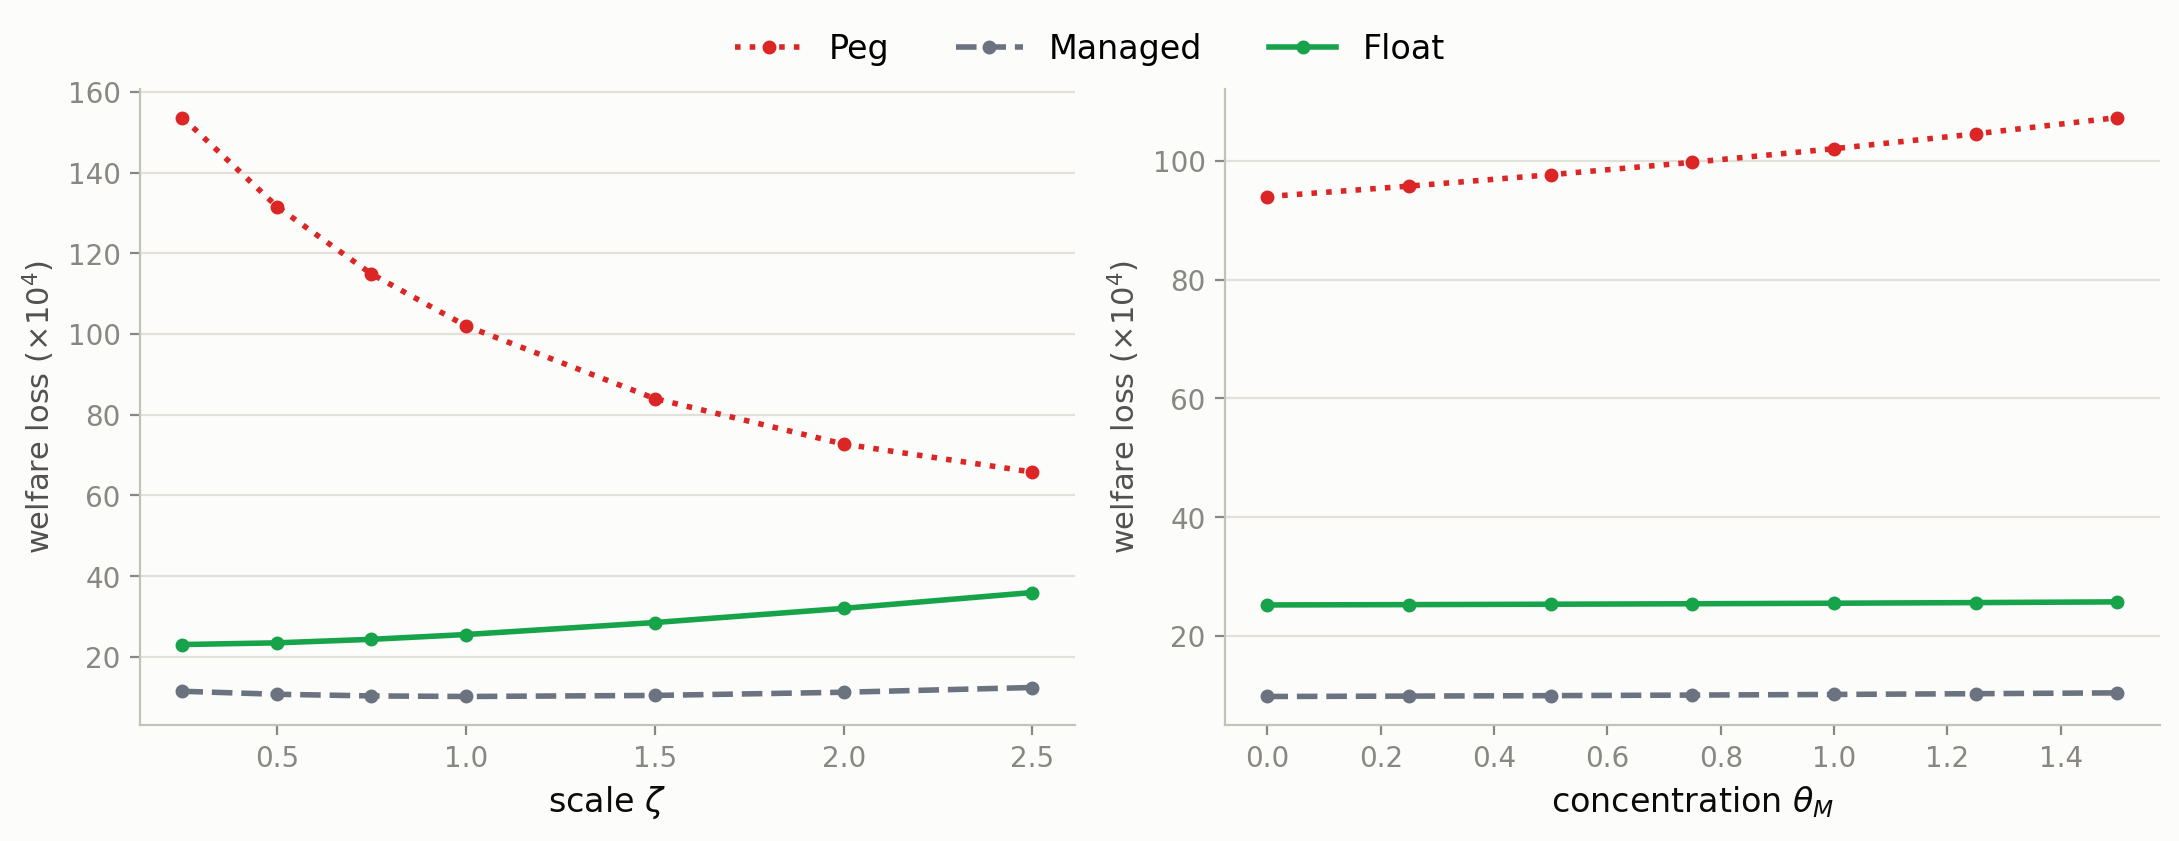
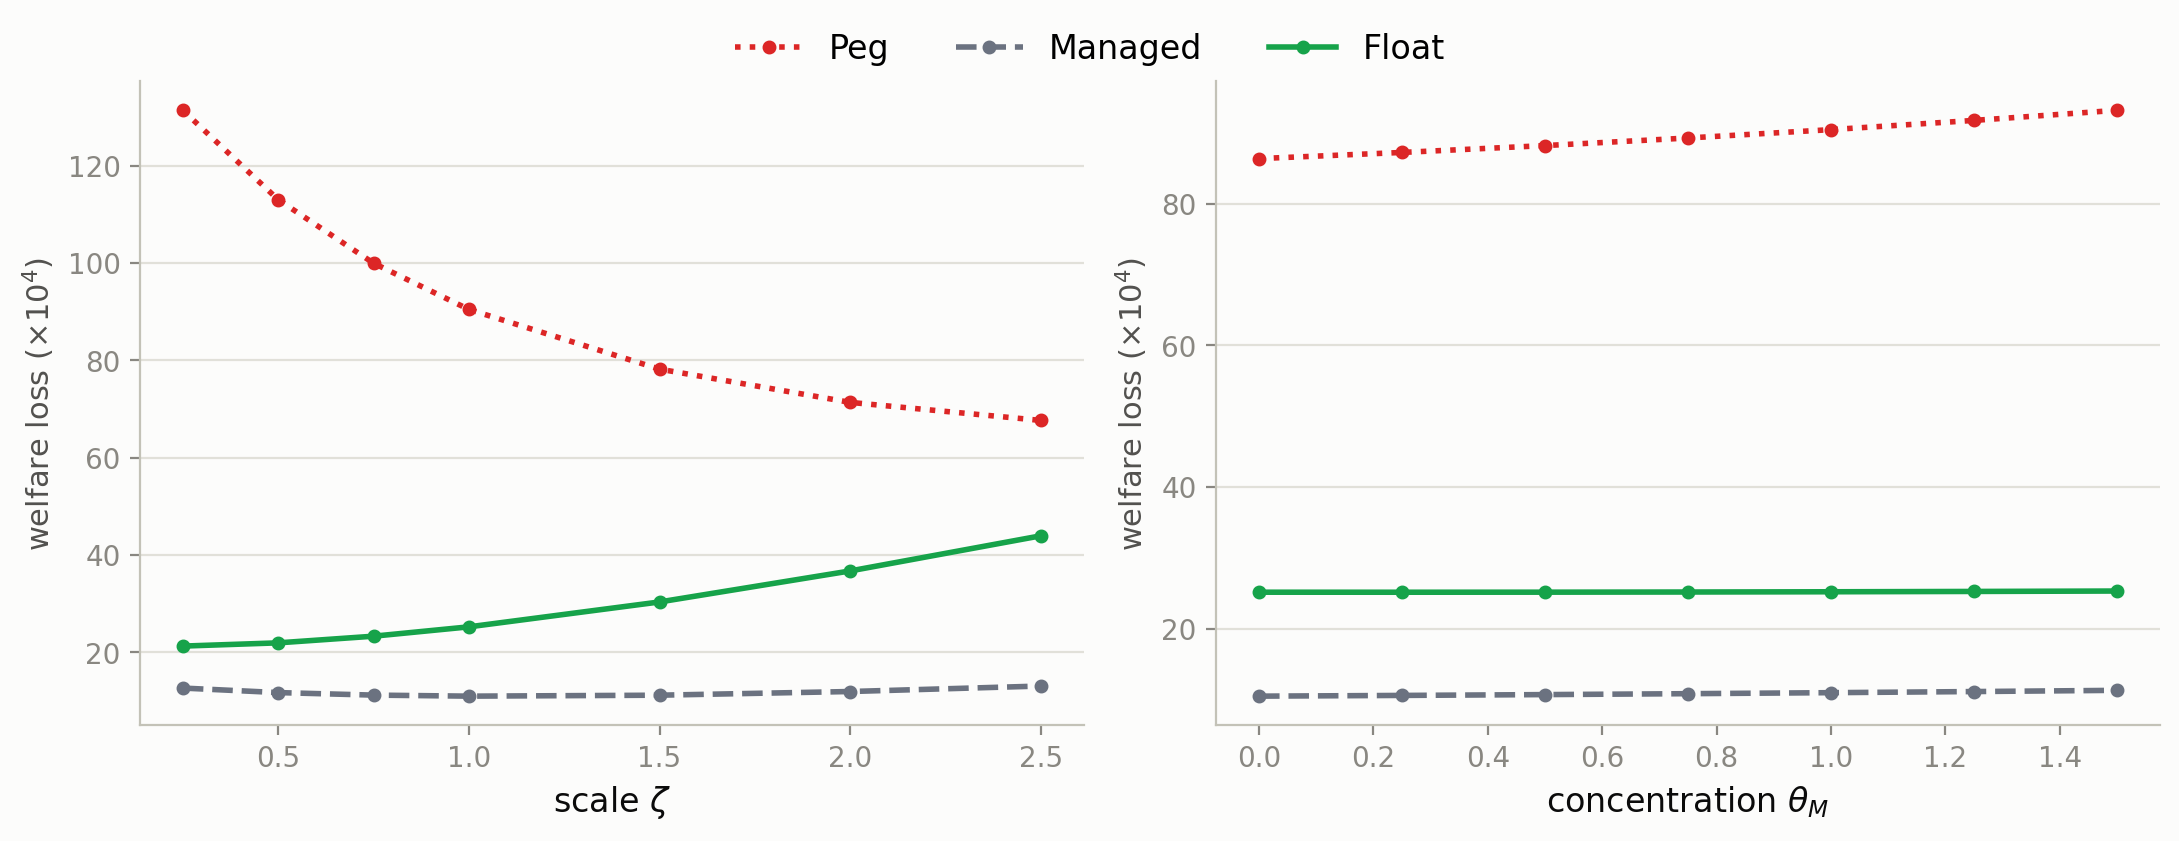
some fixes

diff --git a/soe_fx_presentation.tex b/soe_fx_presentation.tex
@@ -318,7 +318,7 @@ NFA accumulates the trade balance; exports are \textbf{sector-specific} (Resourc
 \[
 \hat b_t^*=\frac{1+i_{t-1}}{\Pi_t^C}\hat b_{t-1}^*+\frac{P_t^H\sum_iEX_{it}-P_t^{FH}IM_t}{P_t^C},
 \qquad
-EX_{it}=\kappa_{EX,i}D_t^*\Big(\frac{P_{it}}{P_t^{FH}}\Big)^{-\theta^*}
+EX_{it}=\kappa_{EX,i}D_t^*\,PX_t\Big(\frac{P_{it}}{P_t^{FH}}\Big)^{-\theta^*}
 \]
 \vspace{10pt}
 
@@ -332,6 +332,19 @@ EX_{it}=\kappa_{EX,i}D_t^*\Big(\frac{P_{it}}{P_t^{FH}}\Big)^{-\theta^*}
 \hat s_t\ \rightarrow\ EX_{it}\ \rightarrow\ \tilde y_t\ \rightarrow\ \pi_{it}
 \quad\text{(demand)}
 \]
+
+\vspace{6pt}
+{\footnotesize where:}
+
+\vspace{4pt}
+\resizebox{\textwidth}{!}{%
+{\scriptsize
+\renewcommand{\arraystretch}{1.4}
+\begin{tabular}{@{}llll@{}}
+$P_t^{F*}$: foreign price of imports & $RP_t$: risk-premium shock & $D_t^*$: foreign demand shock & $PX_t$: export price/ToT shock \\
+$\psi(\cdot)$: debt-elastic NFA stabilizer & $\hat b_t^*$: NFA (\% GDP) & $\kappa_{EX,i}$: export scale, sector $i$ & $\theta^*$: export demand elasticity \\
+$\hat s_t\equiv\log(S_t/\bar S)$: log exch.\ rate & $\Delta e_{t+1}\equiv\mathbb E_t\hat s_{t+1}-\hat s_t$: exp.\ depreciation & \multicolumn{2}{l}{(hats: log-deviation from steady state, throughout)} \\
+\end{tabular}}}
 
 \end{frame}
 
@@ -406,9 +419,7 @@ The central bank partially stabilizes the exchange rate.
 \textbf{Foreign sector}:
 
 \[
-i_t=i^*+\mathbb E_t\Delta e_{t+1}+\psi(\hat b_t^*)+RP_t,
-\qquad
-\hat b_t^*=\frac{1+i_{t-1}}{\Pi_t^C}\hat b_{t-1}^*+\frac{P_t^H\sum_iEX_{it}-P_t^{FH}IM_t}{P_t^C}
+i_t=i^*+\mathbb E_t\Delta e_{t+1}+\psi(\hat b_t^*)+RP_t
 \]
 
 \textbf{Policy rule}:
@@ -422,9 +433,11 @@ i_t=i^*+\mathbb E_t\Delta e_{t+1}+\psi(\hat b_t^*)+RP_t,
 \end{cases}
 \]
 
-{\scriptsize where: $r_t^{\mathrm{nat}}$ natural real rate, $\hat p_t^H$ log home price idx., $\pi_t^{DC}$ DC index (target); $\mathcal B,\Gamma,\mathcal V,\psi(\cdot),RP_t$ as before.}
+{\scriptsize where: $r_t^{\mathrm{nat}}$ natural real rate, $\hat p_t^H$ log home price idx., $\pi_t^{DC}$ DC index (target); $\mathcal B,\Gamma,\mathcal V,\psi(\cdot),RP_t,\hat p_t^{F*}(PF_t)$ as before.}
 
 \textbf{Welfare loss}: $\mathcal{W}=\tfrac12\big[(\gamma+\varphi)\mathrm{Var}(\tilde y_t)+\sum_i\kappa_i\mathrm{Var}(\pi_{it})\big]$, $\kappa_i=\lambda_{D,i}\varepsilon\frac{1-\hat\delta_i}{\hat\delta_i}$
+
+{\scriptsize \textbf{Seven AR(1) shocks} (1\% s.d.\ each): sector TFP $A_1,A_2,A_3$ ($\rho{=}0.90$), import price $PF$ ($\rho{=}0.85$), foreign demand $D^*$ ($\rho{=}0.80$), export price/ToT $PX$ ($\rho{=}0.85$), risk premium $RP$ ($\rho{=}0.80$).}
 
 \end{frame}
 
@@ -539,7 +552,7 @@ $\phi_s$ & $0.30$ & \\
 \end{center}
 
 \vspace{4pt}
-{\footnotesize Density sweep on the \textbf{real Chile network} (scales all six cross-sector $\Omega^H$ entries by $\rho$, own-input fixed; $\rho{=}1$ baseline, max feasible $\rho\approx2.2$): losses rise monotonically with density in every regime, and the Peg/Float gap \textbf{widens} --- \textbf{Managed stays best throughout}. Right: price-dispersion premium ($\rho{=}1$ vs.\ $\rho{=}0$) concentrates in Services for Float/Managed, but is \emph{negative} for Peg (denser network shifts its dispersion into the output gap instead).}
+{\footnotesize Density sweep on the \textbf{real Chile network} (scales all six cross-sector $\Omega^H$ entries by $\rho$, own-input fixed; $\rho{=}1$ baseline, max feasible $\rho\approx2.2$): losses rise monotonically with density in every regime, and the Peg/Float gap \textbf{widens} --- \textbf{Managed stays best throughout}. Right: price-dispersion premium ($\rho{=}1$ vs.\ $\rho{=}0$) is clearly positive and concentrated in Services for Float/Managed, but small and \emph{mixed} across sectors for Peg (Resource/Manuf.\ slightly negative, Services slightly positive, netting close to zero) --- Peg's density sensitivity runs mainly through the output gap, not price dispersion.}
 
 \end{frame}
 
@@ -702,11 +715,11 @@ Services & $0.38\;/\;0.15$ & $2.31\;/\;1.33$ & \textcolor{riskred}{$\mathbf{35.1
 \toprule
 \textbf{Dimension} & \textbf{Effect on the regimes} & \textbf{Ranking?} \\
 \midrule
-Import openness $\uparrow$ & Peg $\downarrow\downarrow$ (68$\to$33), Float $\uparrow$ (11$\to$23), Managed flat & gap \textbf{converges} \\
-Import concentration $\uparrow$ & Peg $\uparrow\uparrow$ (37$\to$60), Float $\downarrow$ slightly, Managed flat & gap \textbf{diverges} \\
+Import openness $\uparrow$ & Peg $\downarrow\downarrow$ (131$\to$68), Float $\uparrow$ (21$\to$44), Managed flat (11--13) & gap \textbf{converges} \\
+Import concentration $\uparrow$ & Peg $\uparrow\uparrow$ (86$\to$93), Float/Managed roughly flat & gap \textbf{diverges} \\
 Export openness $\uparrow$ & \textbf{all regimes improve}, Peg most (99$\to$85) & unchanged \\
 Export concentration (Resource) & helps Peg, mildly hurts Float/Managed & unchanged \\
-Network density $\rho\uparrow$ & \textbf{all} worsen, Peg fastest (76$\to$207 at $\rho{=}2.2$) & gap \textbf{diverges} \\
+Network density $\rho\uparrow$ & \textbf{all} worsen, Peg fastest (73$\to$214 at $\rho{=}2.2$) & gap \textbf{diverges} \\
 \bottomrule
 \end{tabular}}
 

diff --git a/code/sweep_import_point.m b/code/sweep_import_point.m
@@ -31,9 +31,9 @@ global oo_
 
 addpath('C:\dynare\6.3\matlab');
 
-master_files = struct('float', 'open_economy_network_chile.mod', ...
-                       'peg', 'open_economy_network_chile_peg.mod', ...
-                       'managed', 'open_economy_network_chile_managed.mod');
+master_files = struct('float', 'open_economy_network_chile_exp.mod', ...
+                       'peg', 'open_economy_network_chile_exp_peg.mod', ...
+                       'managed', 'open_economy_network_chile_exp_managed.mod');
 
 OF_base = [0.0767, 0.1945, 0.0704];             % Resource, Manuf., Services (real Chile calibration)
 OH_sum  = [0.0750+0.1526+0.1932, 0.0991+0.2022+0.1453, 0.0018+0.0581+0.2661];  % Chile OH row sums (fixed)

diff --git a/code/sweep_netdens_chile.m b/code/sweep_netdens_chile.m
@@ -26,9 +26,9 @@ global oo_
 
 addpath('C:\dynare\6.3\matlab');
 
-master_files = struct('float', 'open_economy_network_chile.mod', ...
-                       'peg', 'open_economy_network_chile_peg.mod', ...
-                       'managed', 'open_economy_network_chile_managed.mod');
+master_files = struct('float', 'open_economy_network_chile_exp.mod', ...
+                       'peg', 'open_economy_network_chile_exp_peg.mod', ...
+                       'managed', 'open_economy_network_chile_exp_managed.mod');
 
 OH_diag = [0.0750, 0.2022, 0.2661];               % OH11, OH22, OH33 (own-input use, fixed)
 OH_offdiag_base = [0.1526, 0.1932;                % row1: OH12, OH13

diff --git a/speech_notes.md b/speech_notes.md
@@ -11,20 +11,14 @@ in the current deck order (23 slides total). Say it in your own words once
 you know it — this is a rehearsal script, not a thing to read verbatim on
 the day.
 
-**Data-provenance flag, for you, not the audience:** as of this rewrite,
-every Results slide uses the real **Chile calibration** (Float 25.15,
-Managed 10.96, Peg 90.45, $\times10^{-4}$) — including "Isolating the
-Network Channel," which was switched from a stylized triangular network to
-the real Chile density sweep. **Exception to check before the talk:**
-"Import Openness & Import Concentration" and "Export Openness & Export
-Concentration" currently caption themselves as "real Chile calibration," but
-their baseline numbers (Float 13.64, Managed 5.36, Peg 49.63) don't match
-the Chile headline — they match the *old* stylized-network baseline. This
-looks like a stale caption, not a stale number: reconfirm which is true
-before asserting "real Chile calibration" out loud on those two slides. If
-you don't have time to rerun them, the safe move is to just not repeat the
-word "Chile" on those two slides specifically and let the qualitative
-result (ranking survives, direction of each sweep) carry the point instead.
+**Data-provenance note, for you, not the audience:** every Results slide now
+uses the real **Chile calibration**, sector-specific-export version (Float
+25.15, Managed 10.96, Peg 90.45, $\times10^{-4}$ baseline) — confirmed
+consistent across Welfare Ranking, Isolating the Network Channel, both
+Openness/Concentration sweeps, and Robustness Summary as of 2026-07-21. (An
+earlier version of two sweep scripts pointed at a stale, pre-sector-specific-
+export master file, giving a Peg baseline of 102 instead of 90 — this has
+been fixed and rerun; no more asterisks needed on any Results number.)
 
 ---
 
@@ -135,14 +129,20 @@ sector creates no cost-push at all, because $\mathcal V\mathbf 1=\mathbf
 
 ## Foreign Sector (1:00)
 "The exchange rate is pinned down by two conditions: law of one price for
-the imported good, and uncovered interest parity with a debt-elastic risk
-premium — that's the $\psi$ term, it's what makes net foreign assets
-stationary, the standard Schmitt-Grohé–Uribe device. Net foreign assets
-accumulate the trade balance, and exports are sector-specific, calibrated
-to match Chile's actual export pattern, which is Resource-heavy. Two
-channels into the domestic economy: a cost-push channel — exchange rate
-into marginal cost into inflation — and a demand channel — exchange rate
-into exports into the output gap into inflation."
+the imported good, and uncovered interest parity. There are actually two
+separate objects in that UIP condition, worth keeping apart. The $\psi$
+term is a debt-elastic premium — a small, endogenous function of net
+foreign assets, the standard Schmitt-Grohé–Uribe device, and it's there
+purely for stationarity, so NFA doesn't wander on a unit root. Then,
+separately, there's an exogenous shock to the country risk premium
+itself — a genuine stochastic innovation, unrelated to the debt level.
+That second one is the one that turns out to matter enormously for Peg, in
+the shock decomposition later. Net foreign assets accumulate the trade
+balance, and exports are sector-specific, calibrated to match Chile's
+actual export pattern, which is Resource-heavy. Two channels into the
+domestic economy: a cost-push channel — exchange rate into marginal cost
+into inflation — and a demand channel — exchange rate into exports into
+the output gap into inflation."
 
 ---
 
@@ -165,7 +165,11 @@ here's the welfare loss function I'll report throughout: quadratic in
 output-gap variance, plus a weighted sum of sector-level inflation
 variances, weights $\kappa_i$ combining each sector's Domar weight and its
 stickiness. Second-order approximation to household utility, following
-Rubbo's approach, extended to the open economy."
+Rubbo's approach, extended to the open economy. Seven shocks drive
+everything from here on: TFP in each of the three sectors, import price,
+foreign demand, export price or terms-of-trade, and the risk premium —
+each a persistent AR(1), one-percent standard deviation. That's the full
+list you'll see broken down in the shock decomposition later."
 
 ---
 
@@ -212,13 +216,19 @@ I'll show you exactly how in a few slides."
 
 ## What Drives Each Regime's Loss? Shock Decomposition (1:15)
 "What's actually driving these numbers, shock by shock. [point] For Peg,
-one shock explains three-quarters of the loss: the risk-premium, or UIP,
-shock. That's the shock that decides everything for a hard peg. For Float
-and Managed it's completely different — TFP shocks dominate instead, and
-the risk-premium shock barely registers, because the exchange rate, or
-partial smoothing under Managed, absorbs it before it reaches output.
-Import price, foreign demand, export price — all second-order, in every
-regime. This is not a terms-of-trade story."
+one shock explains three-quarters of the loss: an exogenous shock to the
+country risk premium — the genuinely stochastic piece from the Foreign
+Sector slide, not the small debt-elastic $\psi$ stabilizer, which barely
+moves anything on its own. And to be clear, this isn't because I gave that
+shock a bigger kick — all seven shocks in the model share the same size,
+one percent. It's structural: a peg removes the exchange-rate buffer that
+would otherwise absorb a risk-premium shock, so the whole thing goes
+straight into the interest rate and the output gap instead. For Float and
+Managed it's completely different — TFP shocks dominate instead, and the
+risk-premium shock barely registers, because the exchange rate, or partial
+smoothing under Managed, absorbs it before it reaches output. Import
+price, foreign demand, export price — all second-order, in every regime.
+This is not a terms-of-trade story."
 
 ---
 
@@ -229,10 +239,11 @@ dial, $\rho$ — $\rho=1$ is the actual calibration, $\rho=0$ means each
 sector only uses its own output and imports, no domestic cross-buying.
 Losses rise monotonically with density in every regime, and critically, the
 Peg-Float gap *widens* as density increases. Managed stays best throughout.
-On the right — the network's price-dispersion premium, concentrated in
-Services for Float and Managed, but actually *negative* for Peg — a denser
-network shifts Peg's cost out of price dispersion and into the output gap
-instead."
+On the right — the network's price-dispersion premium, clearly positive and
+concentrated in Services for Float and Managed. For Peg it's small and
+mixed — slightly negative for Resource and Manufacturing, slightly positive
+for Services, netting close to zero. Peg's sensitivity to network density
+runs mainly through the output gap, not price dispersion."
 
 ---
 